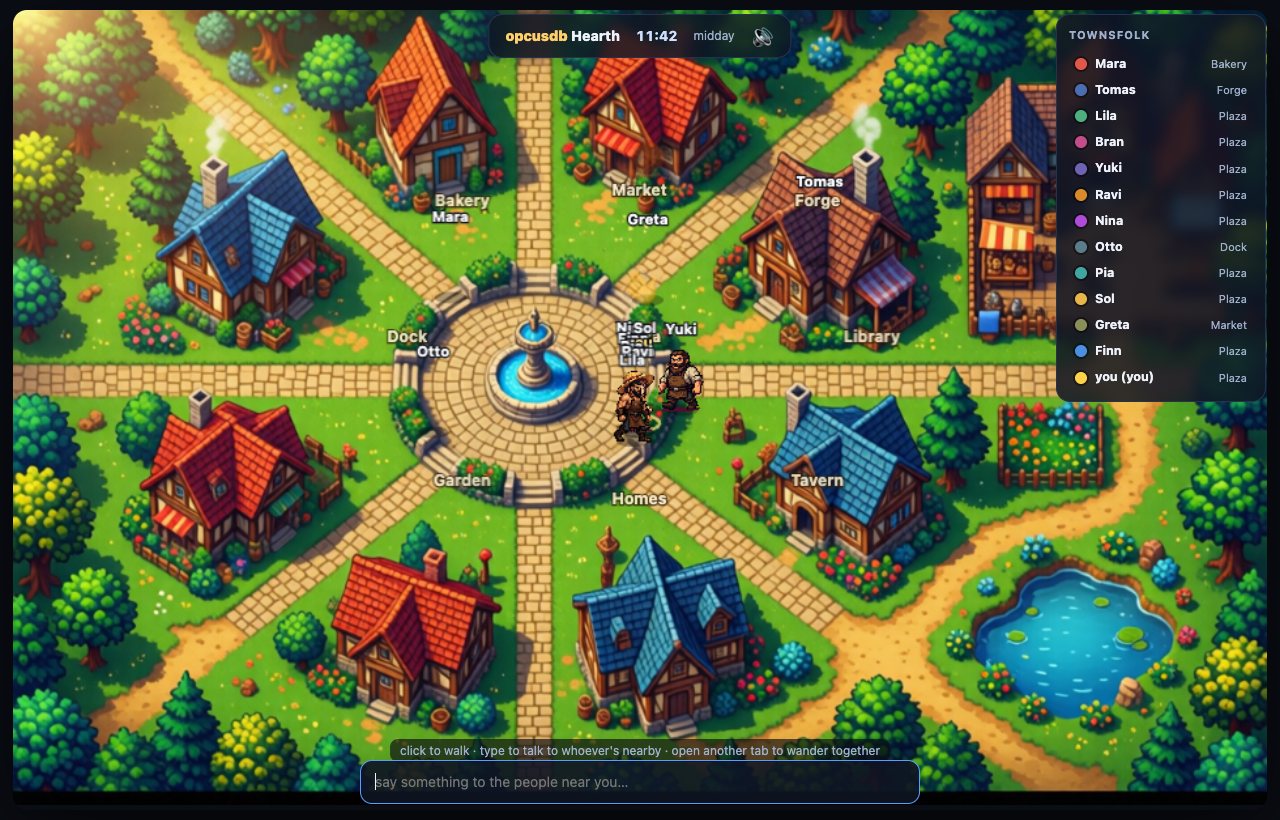
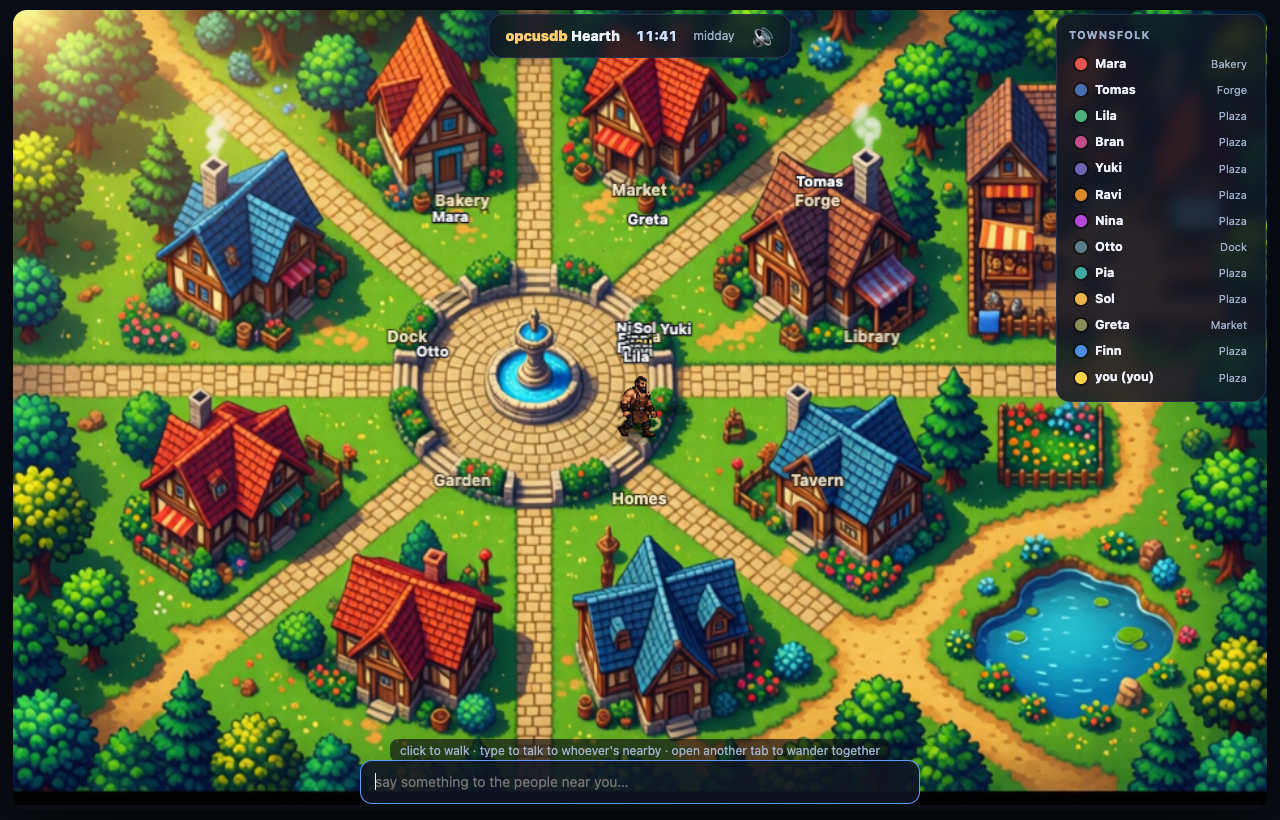
Hearth: chatter feed upgrades a line in place instead of duplicating
With the instant-line-then-real-reply design, a speaker could log two feed entries in
a row (the canned stub, then the model reply). The feed now replaces the previous
entry from the same speaker when a follow-up arrives within a few seconds, so an
upgraded line reads as one line, not a repeat.

Changed region(s): [[0.4688, 0.3354, 0.5625, 0.5488], [0.5, 0.1524, 0.5312, 0.2134]]

diff --git a/demos/server/web/town.js b/demos/server/web/town.js
@@ -301,8 +301,11 @@ function nameOf(id) { const r = roster.find(r => r.id === id); return r ? r.name
 function logChatter(id, text) {
   if (!text || lastLine.get(id) === text) return;
   lastLine.set(id, text);
-  chatter.push({ name: nameOf(id), text });
-  if (chatter.length > 9) chatter.shift();
+  const now = performance.now(), last = chatter[chatter.length - 1];
+  // a quick follow-up from the same speaker is the real reply upgrading the instant
+  // line, so replace the entry in place rather than logging a duplicate
+  if (last && last.id === id && now - last.t < 4000) { last.text = text; last.t = now; }
+  else { chatter.push({ id, name: nameOf(id), text, t: now }); if (chatter.length > 9) chatter.shift(); }
   const el = $("chatter"); if (el) el.innerHTML = chatter.map(c => `<div class="cl"><b>${esc(c.name)}</b> ${esc(c.text)}</div>`).join("");
 }
 